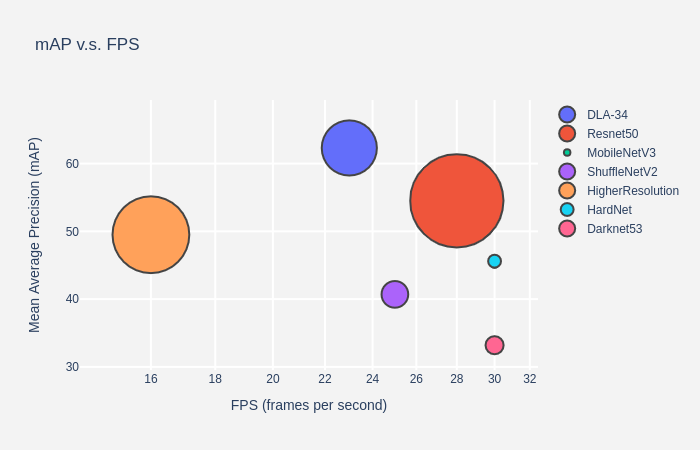
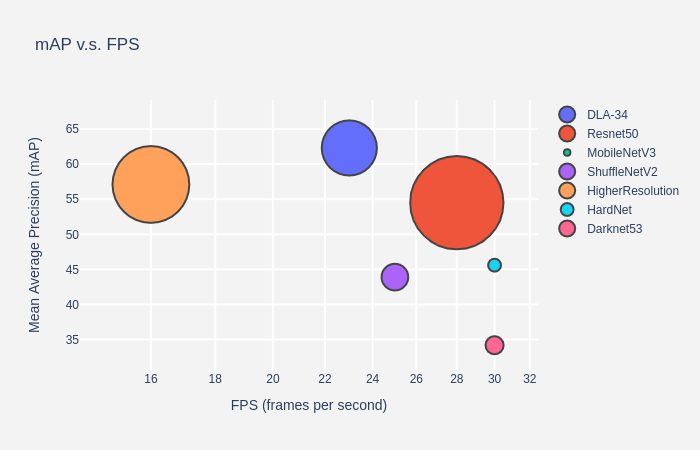
update

diff --git a/readme/plot_speed_accuracy.py b/readme/plot_speed_accuracy.py
@@ -12,11 +12,11 @@ continent_data = {}
 
 continent_data['DLA-34'] = {'map':[62.3], 'speed':[23], 'size':82.7/1.5}
 continent_data['Resnet50'] = {'map':[54.5], 'speed':[28], 'size':139.8/1.5}
-continent_data['MobileNetV3'] = {'map':[45.1], 'speed':[30], 'size':9.7/1.5}
-continent_data['ShuffleNetV2'] = {'map':[40.7], 'speed':[25], 'size':40./1.5}
-continent_data['HigherResolution'] = {'map':[49.5], 'speed':[16], 'size':115.2/1.5}
+continent_data['MobileNetV3'] = {'map':[46.0], 'speed':[30], 'size':9.7/1.5}
+continent_data['ShuffleNetV2'] = {'map':[43.9], 'speed':[25], 'size':40./1.5}
+continent_data['HigherResolution'] = {'map':[57.1], 'speed':[16], 'size':115.2/1.5}
 continent_data['HardNet'] = {'map':[45.6], 'speed':[30], 'size':19.3/1.5}
-continent_data['Darknet53'] = {'map':[33.2], 'speed':[30], 'size':27.1/1.5}
+continent_data['Darknet53'] = {'map':[34.2], 'speed':[30], 'size':27.1/1.5}
 
 # Create figure
 fig = go.Figure()

diff --git a/README.md b/README.md
@@ -12,10 +12,10 @@ multi person pose estimation using center point detection:
 |DLA-34        | 62.7      |    23      |  - |[model](https://drive.google.com/open?id=1IahJ3vpjTVu1p-Okf6lcn-bM7fVKNg6N)  |
 |Resnet-50     | 54.5     |    28      |  33 |[model](https://drive.google.com/open?id=1oBgWrfigo2fGtpQJXQ0stADTgVFxPWGq)  |
 |MobilenetV3   | 46.0      |    30      |  - |[model](https://drive.google.com/open?id=1snJnADAD1NUzyO1QXCftuZu1rsr8095G)  |
-|ShuffleNetV2  | 40.7      |    25      |  - |[model](https://drive.google.com/open?id=1FK7YQzCB6mLcb0v4SOmlqtRJfA-PQSvN)  |
-|[High Resolution](https://github.com/HRNet/Higher-HRNet-Human-Pose-Estimation)| 49.5     |    16      |  - |[model](https://drive.google.com/open?id=1X0yxGeeNsD4VwU2caDo-BaH_MoCAnU_J)  |
+|ShuffleNetV2  | 43.9      |    25      |  - |[model](https://drive.google.com/open?id=1FK7YQzCB6mLcb0v4SOmlqtRJfA-PQSvN)  |
+|[High Resolution](https://github.com/HRNet/Higher-HRNet-Human-Pose-Estimation)| 57.1    |    16      |  - |[model](https://drive.google.com/open?id=1X0yxGeeNsD4VwU2caDo-BaH_MoCAnU_J)  |
 |[HardNet]()| 45.6    |    30        | -  |[model](https://drive.google.com/open?id=1Y75bGuJyf1_Tr0ksoJ5Z7xaCp4v5DG2g)  |
-|[Darknet53]()| 33.2    |    30        | -  |[model](https://drive.google.com/open?id=1S8spP_QKHqIYmWpfF9Bb4-4OoUXIOnkh)  |
+|[Darknet53]()| 34.2    |    30        | -  |[model](https://drive.google.com/open?id=1S8spP_QKHqIYmWpfF9Bb4-4OoUXIOnkh)  |
 
 
 ## Installation
